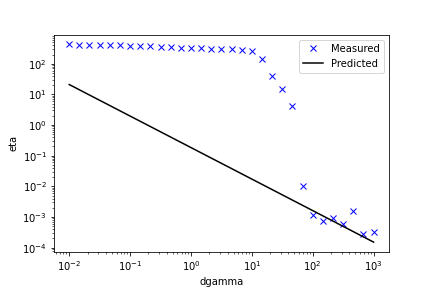
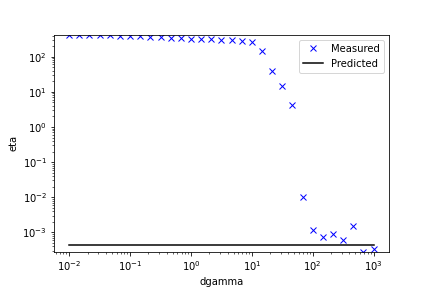
Comparing regression methods

diff --git a/Regression.py b/Regression.py
@@ -7,8 +7,6 @@ Created on Wed Feb 23 09:56:01 2022
 #import scipy.integrate as integrate
 #from scipy.integrate import odeint
 from scipy.optimize import minimize
-from scipy.optimize import least_squares
-from scipy.optimize import curve_fit
 from statistiques import *
 #import scipy.linalg as la
 import numpy as np
@@ -25,7 +23,7 @@ def readData(inputFile):
     return etaE, dgammaE
 
 #Theoric model
-def estimate(param,law,dgamma):
+def model(param,law,dgamma):
     eta=[]
     #Power Law model
     if law==models[0]:
@@ -37,15 +35,12 @@ def estimate(param,law,dgamma):
         eta=(etazero-etainf)*(1+(lambd*dgamma)**a)**((n-1)/a)+etainf
     return eta
 
-def CarYas(dgamma,etainf,etazero,lambd,a,n):
-    eta=(etazero-etainf)*(1+(lambd*dgamma)**a)**((n-1)/a)+etainf
-    return eta
 
 #Least squares definition
 def objective(param):
-#    return np.sum(((estimate(param,law,dgammaE)-etaE)/etaE)**2)
-#    return np.log(estimate(param,law,dgammaE))-np.log(etaE)
-    return np.sum(((estimate(param,law,dgammaE)-etaE)/etaE)**2)
+    return np.sum(((model(param,law,dgammaE)-etaE)/etaE)**2)
+
+
 #Fetching experimental data
 #nameFile= #DEMANDER NOM DU FICHIER UTILISATEUR?
 models=[
@@ -54,19 +49,13 @@ models=[
         "Cross"]
 law=models[1]#DEMANDER NOM DE LA MÉTHODE UTILISATEUR
 [etaE,dgammaE]=readData("test1.txt")
-#if dgammaE[1]<dgammaE[0]:
- #   dgammaE.reverse()
-    
+
 # initial guesses
 if law==models[0]:
-#    param0=[98.025251,-0.03266]
-    param0=[1.0,0.05]
+    param0=[98.025251,-0.03266]
 if law==models[1]:
 #    param0=[0.0005,385.4000,0.0004209,1.0730147,-250.4070]
-    param0=[min(etaE),max(etaE),0.00050,1.07000,-250.500000]
-    #if 
-#eta_inf zero vs existe
-
+    param0=[etaE[len(etaE)-1],etaE[0],0.0005000,1.0600000,-251.000000]
 
 # optimize
 # bounds on variables
@@ -74,17 +63,19 @@ bnds0 = (0.0, 1.0e3)
 no_bnds = (-1.0e10, 1.0e10)
 if law==models[0]:
     bnds = (no_bnds, no_bnds)
- #   bnds = (bnds0, bnds0)
 if law==models[1]:
     bnds = (bnds0, bnds0, bnds0, bnds0, no_bnds)
-#solution = minimize(objective,param0,method='SLSQP',bounds=bnds)
-solution = least_squares(objective,param0)
-#solution, cov=curve_fit(CarYas,dgammaE,etaE,param0,bounds=[0,1.0e10])
+solution = minimize(objective,param0,method='SLSQP',bounds=bnds)
+#print(solution)
 param = solution.x
+#print(param)
+#x=np.linspace(dgammaE[len(dgammaE)-1],dgammaE[0],300)
+#print(dgammaE)
+#print(x)
+dgamma=np.linspace(dgammaE[0],dgammaE[len(dgammaE)-1],100)
+eta = model(param,law,dgamma)
+#print(eta)
 
-dgamma=np.logspace(np.log10(min(dgammaE)),np.log10(max(dgammaE)),100)
-eta = estimate(param,law,dgamma)
-print(eta)
 #############################################################################
 ###PRINTING RESULTS###
 # show final objective
@@ -103,11 +94,7 @@ if law==models[1]:
     print('n = ' + str(param[4]))
 
 #Statistics report    
-r2score(dgammaE,etaE,estimate(param,law,dgammaE))   
-
-ymin=min(etaE)
-if min(eta)<ymin:
-    ymin=min(eta)
+r2score(dgammaE,etaE,model(param,law,dgammaE))   
 
 # plot solution
 plt.figure(1)
@@ -117,7 +104,6 @@ plt.yscale("log")
 plt.xscale("log")
 plt.xlabel('dgamma')
 plt.ylabel('eta')
-plt.ylim((ymin,max(etaE)))
 plt.legend(['Measured','Predicted'],loc='best')
 plt.savefig('results.png')
 plt.show()

diff --git a/NewtonRaphson.py b/NewtonRaphson.py
@@ -1,0 +1,32 @@
+# -*- coding: utf-8 -*-
+"""
+Created on Tue Mar  8 13:14:50 2022
+
+@author: Bérénice
+"""
+#import scipy.linalg as la
+import numpy as np
+import matplotlib.pyplot as plt
+from regTest2 import *
+
+
+#Matrice R(x)
+def R(yexp,param,law,dgammaE):
+    eta=model(param,law,dgammaE)
+    R=np.zeros(len(param))
+    if law=="Power Law":
+        R[0]=0
+        R[1]=0
+    if law=="Carreau-Yasuda":
+        etainf,eta0,lamb,a,n=param
+        R[0]=(yexp-eta)*(1+(dgammaE*lamb)**a)**((n-1)/a)
+        R[1]=(yexp-eta)*(1-(1+(dgammaE*lamb)**a)**((n-1)/a))
+        R[2]=(yexp-eta)*(dgammaE**a*lamb**(a-1)(eta0-etainf)*(n-1)*(1+(dgammaE*lamb)**a)**((n-1)/a))
+        R[3]=(yexp-eta)*(eta0-etainf)*((np.log(dgammaE*lamb)*(dgammaE*lamb)**a)/(a*((lamb*dgammaE)**a+1))-np.log((lamb*dgammaE)**a+1)/a**2)*((lamb*dgammaE)**a+1)**((n-1)/a)
+        R[4]=(yexp-eta)*(eta0-etainf)/a*(exp((n-1)/a*np.log((dgammaE*lamb)**a+1))*np.log((dgammaE*lamb)**a+1))
+    return R
+
+def J(yexp,param,law,dgammaE):
+    J=np.zeros((len(param),len(param)))
+    
+    return J

diff --git a/statistiques.py b/statistiques.py
@@ -1,0 +1,21 @@
+# -*- coding: utf-8 -*-
+"""
+Created on Sun Mar  6 14:32:30 2022
+
+@author: Bérénice
+"""
+import numpy as np
+
+
+def r2score(xexp,yexp,yreg):
+    yavg=np.sum(yexp)/len(yexp)
+    avg=yexp-yavg
+    reg=yexp-yreg
+    coeff=(np.sum(np.power(avg,2))-np.sum(np.power(reg,2)))/np.sum(np.power(avg,2))
+    print('\nR2 = ')
+    print(coeff)
+    return coeff
+
+# def pvalue(x,y):
+    
+#     return coeff
